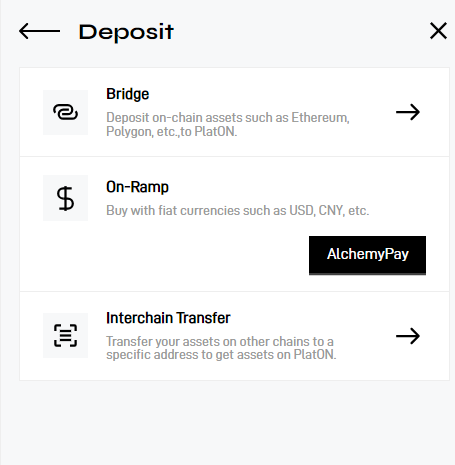
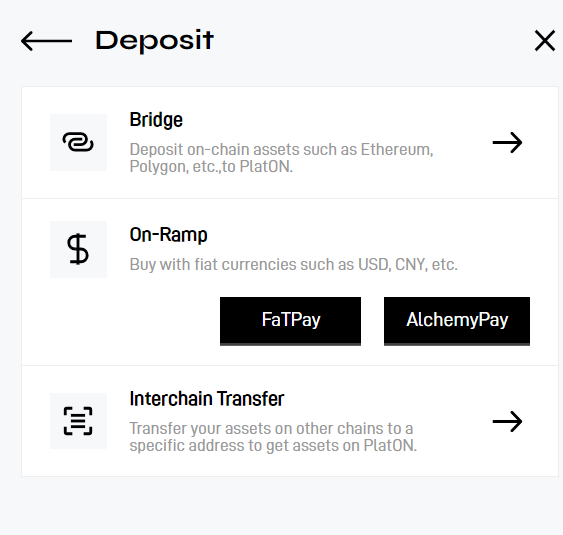
update PlatON Wallet Plugin

diff --git a/docs/PlatON Wallet Plugin.md b/docs/PlatON Wallet Plugin.md
@@ -40,7 +40,7 @@ The wallet plugin supports sending and receiving Tokens on the PlatON network.
 Currently there are two ways to recharge assets on the PlatON network: 
 
 - Method 1: Transfer assets from other networks to the PlatON network through cross-chain bridges 
-- Method 2: Purchase assets on the PlatON network by paying in fiat currency through integration with Alchemy Pay.   We will support more convenient recharge methods in the future. 
+- Method 2: Purchase assets on the PlatON network by paying in fiat currency through integration with Alchemy Payand FaTPay.   We will support more convenient recharge methods in the future. 
 - Method 3: Deposit through Interchain Transfer. After depositing assets to the specified address, the asset deposit on the PlatON network can be completed.
 
 <img src="/docs/img/zh-CN/PlatON-Wallet-imgs/deposit.jpg" alt="deposit"/>

diff --git a/website/i18n/zh-CN/docusaurus-plugin-content-docs/current/PlatON Wallet Plugin.md b/website/i18n/zh-CN/docusaurus-plugin-content-docs/current/PlatON Wallet Plugin.md
@@ -41,7 +41,7 @@ PlatON 钱包插件兼容多种去中心化钱包，应用方通过集成 PlatON
   目前提供三种方式来进行 PlatON 网络资产的充值：
 
 - 方式一：通过跨链桥的方式从其他网络跨入资产到 PlatON 网络，目前已经支持从Ethereum、Polygon、BSC和Tron四个网络充值资产到 PlatON 网络。
-- 方式二：通过集成 Alchemy Pay，支持以法币支付的方式购买 PlatON 网络上的资产
+- 方式二：通过集成 Alchemy Pay和FaTPay，支持以法币支付的方式购买 PlatON 网络上的资产
   未来我们还将支持更多种便捷的充值方式。
 - 方式三：通过Interchain Transfer来进行充值。将资产充值到指定的地址之后，即可完成PlatON网络上的资产充值。
 
